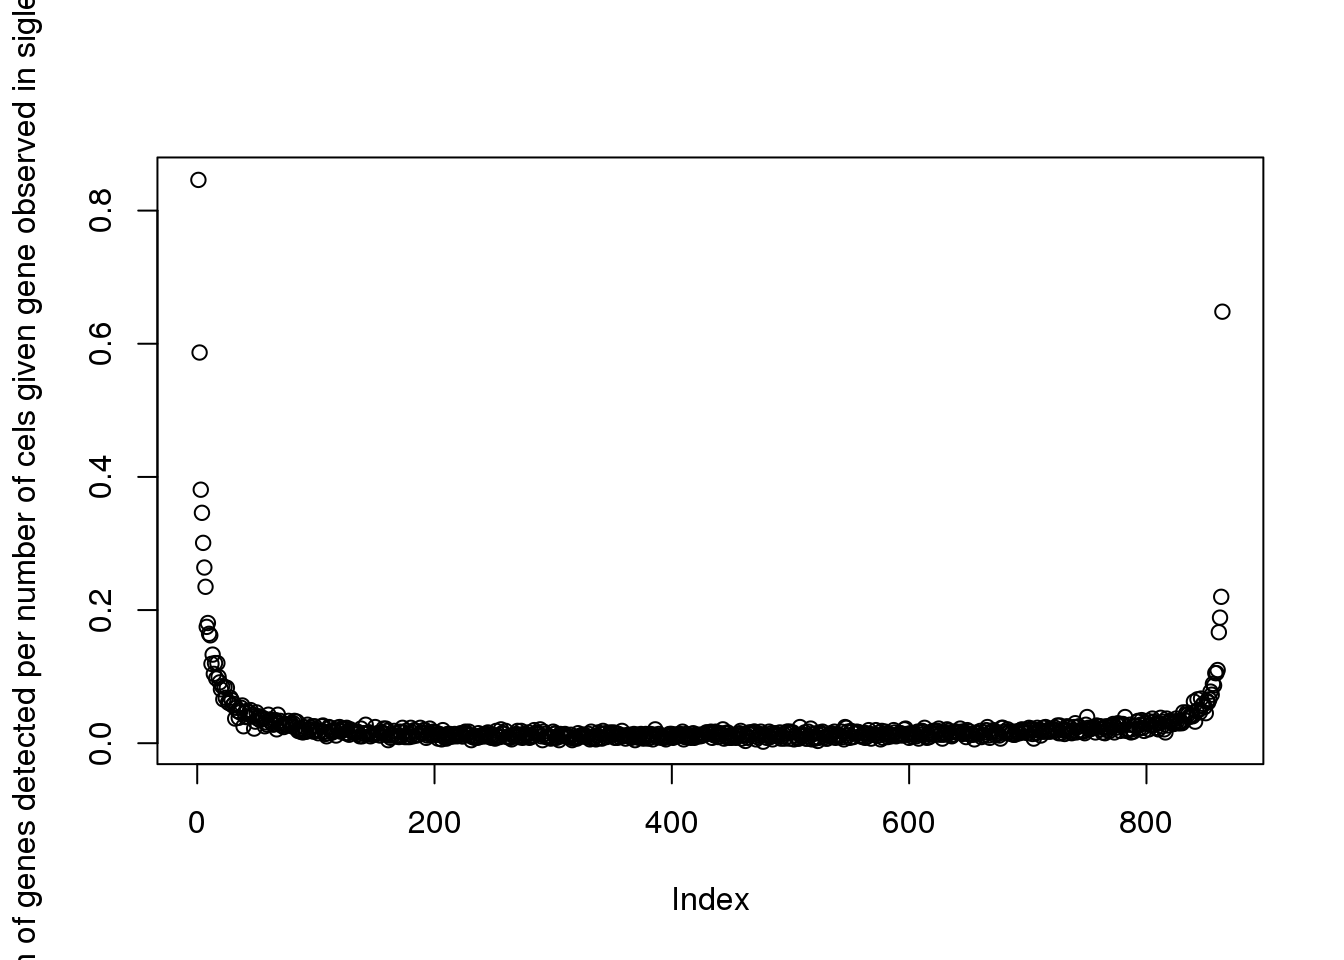
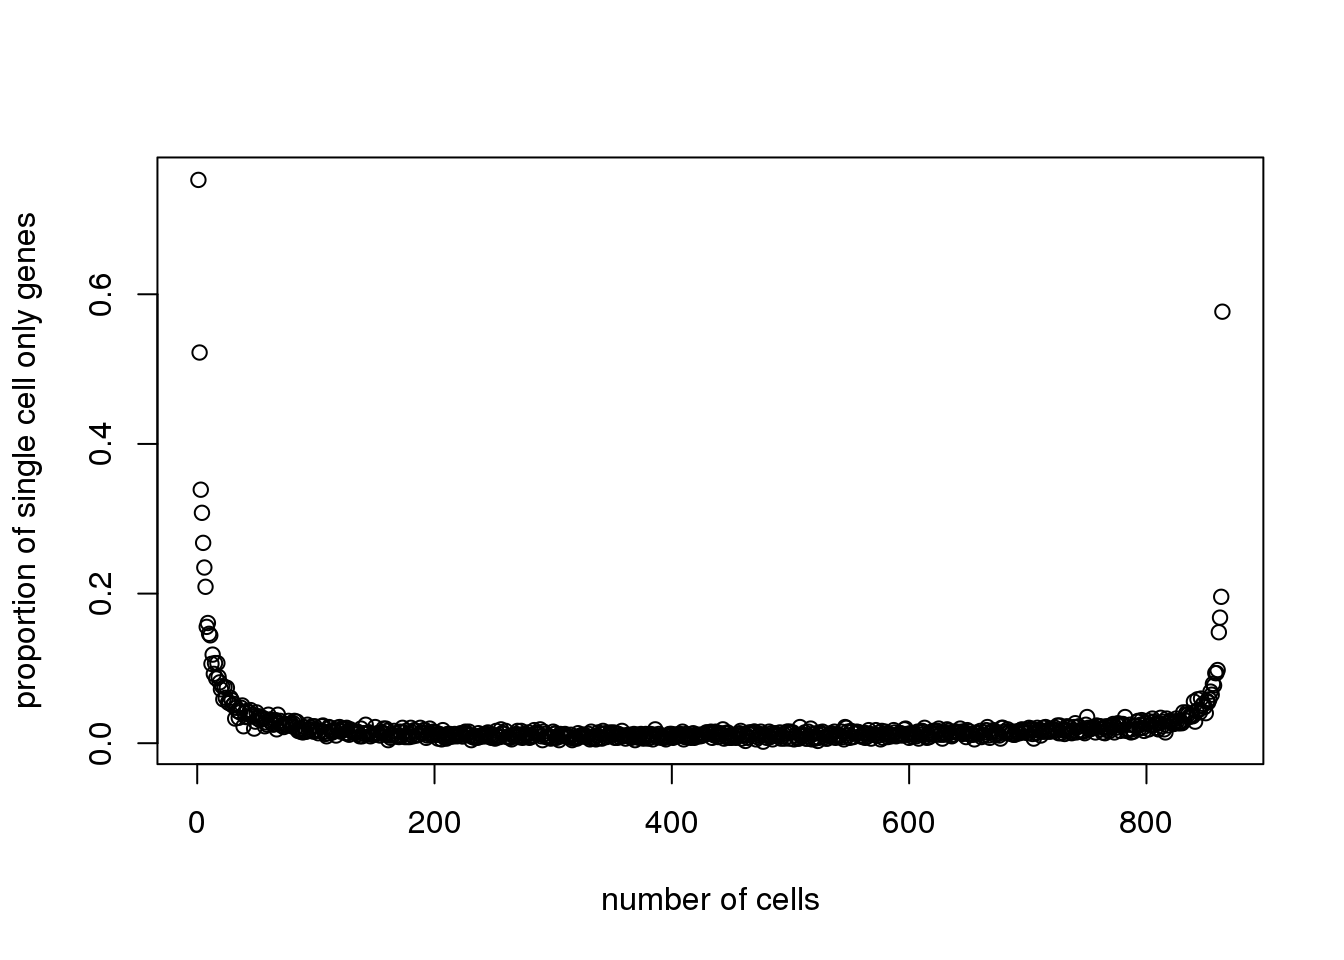
Build site.

diff --git a/docs/explore_bulkvsingle_gene.html b/docs/explore_bulkvsingle_gene.html
@@ -310,7 +310,7 @@ div.tocify {
 
 
 <p><strong>Last updated:</strong> 2017-03-01</p>
-<p><strong>Code version:</strong> ab88151</p>
+<p><strong>Code version:</strong> 6790fdc</p>
 <p>This analysis looks into genes that were only detected in either the single cell or bulk sequencing. Contrary to many’s intuitiion there were more genes detected using single cell sequencing than when we pooled cells together. I wanted to explore the expression levels of these genes, variability in expression levels, and the proportion of single cells where these genes were detected. For the bulk specific genes I wanted to see how their expression compares to the expression levels of the genes found in both analysis. Information found here could provide information about bias or provide evidence for the importance of single cell sequencing to detect gene expression.</p>
 <div id="pull-in-genes-lists" class="section level3">
 <h3>Pull in genes lists</h3>
@@ -533,8 +533,11 @@ dim(molecules_with_nonzero_all[molecules_with_nonzero_all$non_zero_cells_all==1,
 <pre><code>[1] 731</code></pre>
 <pre class="r"><code>dim(molecules_with_nonzero_all[molecules_with_nonzero_all$non_zero_cells_all==2,])[1]</code></pre>
 <pre><code>[1] 507</code></pre>
-<pre class="r"><code>prop_cell_function= function(c){
-  return(dim(molecules_with_nonzero_all[molecules_with_nonzero_all$non_zero_cells_all==c,])[1])
+<pre class="r"><code>###In function need to count the number of these genes that are only found found in single cell
+prop_cell_function= function(c){
+  x= molecules_with_nonzero_all[molecules_with_nonzero_all$non_zero_cells_all==c, ]
+  x[rownames(x) %in% rownames(molecules_only_SC),]
+  return(dim(x)[1])
 }
 
 prop_cell_function(1)</code></pre>
@@ -548,32 +551,11 @@ for (i in seq(1:864)){
   num= prop_cell_function(i)
   prop_cells=c(prop_cells, num)
 }
-plot(prop_cells/864, ylab=&quot;Proportion of genes detected per number of cels given gene observed in sigle cell or pulk &quot;)</code></pre>
+plot(prop_cells/971, ylab=&quot;proportion of single cell only genes&quot;, xlab=&quot;number of cells&quot;)</code></pre>
 <p><img src="figure/explore_bulkvsingle_gene.Rmd/unnamed-chunk-11-2.png" width="672" style="display: block; margin: auto;" /></p>
-<pre class="r"><code># given a gene is observed in single cell or bulk ( genes), we condition on the 
-# number of cells (ranging 0 - 864 cells) and look at the proportion of cells
-# that a gene is detected in single cell </code></pre>
-<pre class="r"><code>prop_cell_function_SConly= function(c){
-  return(dim(molecules_with_nonzero[molecules_with_nonzero$non_zero_cells==c,])[1])
-}
-
-#do this in sapply for 0-864
-prop_cells_SC= c()
-
-for (i in seq(1:864)){
-  num= prop_cell_function_SConly(i)
-  prop_cells_SC=c(prop_cells_SC, num)
-}
-
-plot(prop_cells_SC)</code></pre>
-<p><img src="figure/explore_bulkvsingle_gene.Rmd/unnamed-chunk-12-1.png" width="672" style="display: block; margin: auto;" /></p>
-<pre class="r"><code>table(molecules_with_nonzero$non_zero_cells)</code></pre>
-<pre><code>
-  1   2   3   4   5   6   7   8   9  10  11  12  13  14  15  16  18  21 
-424 197 107  77  45  26  31   9  12  10   5   4   5   4   2   2   2   1 
- 25  32  33  35  45 112 
-  1   1   1   3   1   1 </code></pre>
-<pre class="r"><code>#condition on only single cell, 424 in 1 cell, 197 in 2 cells, number of genes found in that cell number  </code></pre>
+<pre class="r"><code># For all genes that are detected in single cell or bulk (19,027 genes), we condition on the 
+# number of cells (ranging 1 - 864 cells) and given n number of cells, we look at 
+# the proportion of genes that are detected in single cell only but not in bulk</code></pre>
 </div>
 </div>
 <div id="only-in-bulk" class="section level3">
@@ -590,7 +572,7 @@ col_vec_onlyBULK &lt;- c(&quot;lightpink&quot;, &quot;blue&quot;)[as.numeric(whi
 
 
 plot((bulk_and_order$bulk_mean) , pch=46, cex=10, col=col_vec_onlyBULK, main = &quot;Mean expression of reads in bulk samples&quot;, ylab=&quot; read count&quot;, xlab = &quot;genes (blue are only bulk genes)&quot;)</code></pre>
-<p><img src="figure/explore_bulkvsingle_gene.Rmd/unnamed-chunk-13-1.png" width="672" style="display: block; margin: auto;" /></p>
+<p><img src="figure/explore_bulkvsingle_gene.Rmd/unnamed-chunk-12-1.png" width="672" style="display: block; margin: auto;" /></p>
 </div>
 
 <hr>
